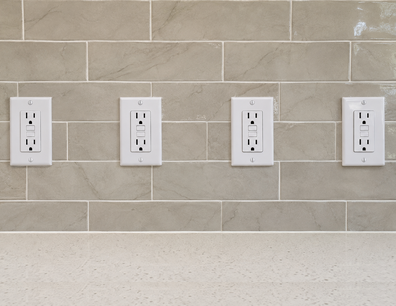
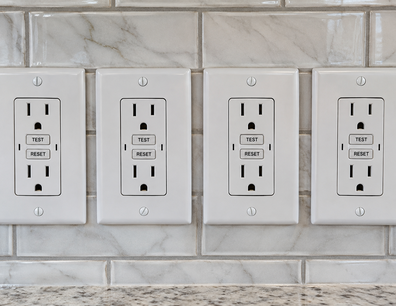
Outlets photo with readable TEST and RESET; the ceiling photo is the same file the photo check reads

diff --git a/design/screens/claim/index.html b/design/screens/claim/index.html
@@ -581,7 +581,7 @@ body {
       <h2 class="tray-title">Removed from claim · photos prove done · <span data-field="proven_done">$1,050</span></h2>
       <div class="done-row">
         <article class="done-card" data-item="1">
-          <img class="ph-gfci" data-field="photo" src="assets/photo-gfci-outlets.png" alt="Four new GFCI outlets installed">
+          <img class="ph-gfci" data-field="photo" src="assets/photo-gfci-outlets.png" alt="Four new GFCI outlets installed, TEST and RESET on each">
           <div class="done-text">
             <div class="name" data-field="item_title">GFCI outlets</div>
             <div class="amt mono" data-field="item_price">$260</div>
